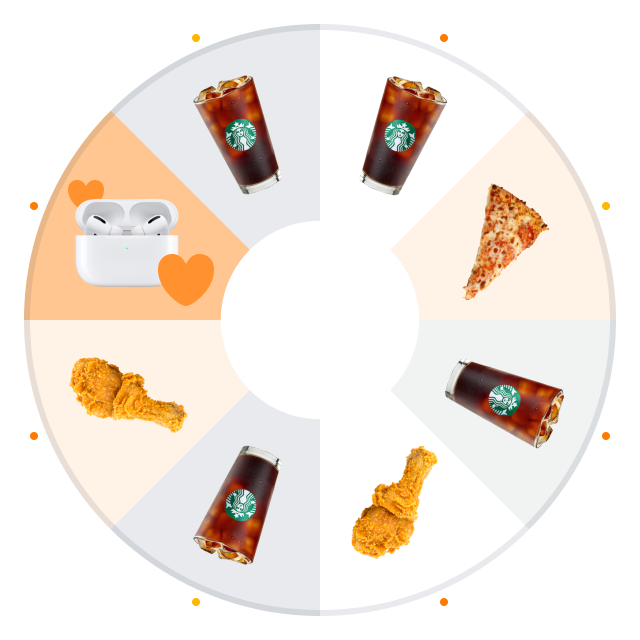
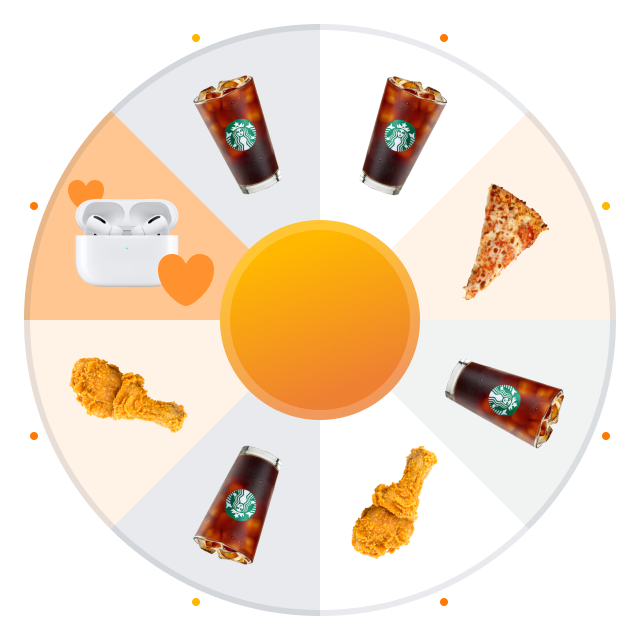
[ design ] 룰렛 UI디자인 구현 완료

Changed region(s): [[0.3438, 0.3438, 0.6562, 0.6562]]

diff --git a/naechinso-web/src/@components/FinishPage/Roulette.tsx b/naechinso-web/src/@components/FinishPage/Roulette.tsx
@@ -1,3 +1,87 @@
+import styled from "styled-components";
+
+import { ImgRoulette, ImgRoulettePicker } from "../../asset/image";
+
 export default function Roulette() {
-  return <div>Roulette</div>;
+  const recommendNumber = 2;
+
+  return (
+    <St.Roulette>
+      <St.RouletteBoard src={ImgRoulette} alt="룰렛 원판" />
+      <St.RoulettePicker src={ImgRoulettePicker} alt="룰렛 피커" />
+      <St.RouletteReadyBtn disabled={recommendNumber > 2 ? false : true}>
+        <St.RouletteBtnTitle recommendNumber={recommendNumber}>
+          {recommendNumber > 2 ? "시-작!🤪" : "시작못함😥"}
+        </St.RouletteBtnTitle>
+        <St.RouletteRecommendNumberWrapper recommendNumber={recommendNumber}>
+          <St.RouletteRecommendNumber recommendNumber={recommendNumber}>{recommendNumber}</St.RouletteRecommendNumber>
+          <St.RouletteReommendFullNumber recommendNumber={recommendNumber}>/3명</St.RouletteReommendFullNumber>
+        </St.RouletteRecommendNumberWrapper>
+      </St.RouletteReadyBtn>
+    </St.Roulette>
+  );
 }
+
+const St = {
+  Roulette: styled.section`
+    width: 100%;
+    position: relative;
+    margin-top: 3.6rem;
+
+    display: flex;
+    flex-direction: column;
+    justify-content: center;
+    align-items: center;
+
+    z-index: 2;
+  `,
+  RouletteBoard: styled.img`
+    width: 32rem;
+  `,
+  RoulettePicker: styled.img`
+    width: 2.8rem;
+    height: 4rem;
+    position: absolute;
+    transform: translate(-50%, 0);
+    left: 50%;
+    top: -8px;
+  `,
+  RouletteReadyBtn: styled.button`
+    position: absolute;
+    transform: translate(-50%, -50%);
+    left: 50%;
+    top: 50%;
+
+    display: flex;
+    flex-direction: column;
+    justify-content: center;
+    align-items: center;
+
+    width: 10rem;
+    height: 10rem;
+  `,
+  RouletteBtnTitle: styled.h2<{ recommendNumber: number }>`
+    color: ${({ theme, recommendNumber }) => (recommendNumber > 2 ? theme.colors.white : "rgba(255, 255, 255, 0.6)")};
+    ${({ theme, recommendNumber }) => (recommendNumber > 2 ? theme.fonts.body1 : theme.fonts.body8)};
+    margin-bottom: 0.3rem;
+  `,
+  RouletteRecommendNumberWrapper: styled.div<{ recommendNumber: number }>`
+    display: flex;
+    align-items: flex-start;
+    padding: 0.2rem 0.6rem;
+    border-radius: 11px;
+    width: fit-content;
+    height: 1.8rem;
+
+    background: ${({ theme, recommendNumber }) =>
+      recommendNumber > 2 ? theme.colors.white : "rgba(255, 255, 255, 0.2)"};
+  `,
+  RouletteRecommendNumber: styled.p<{ recommendNumber: number }>`
+    color: ${({ theme, recommendNumber }) => (recommendNumber > 2 ? theme.colors.orange : "rgba(255, 255, 255, 0.4)")};
+    ${({ theme }) => theme.fonts.caption2};
+  `,
+  RouletteReommendFullNumber: styled.b<{ recommendNumber: number }>`
+    color: ${({ theme, recommendNumber }) => (recommendNumber > 2 ? theme.colors.orange : theme.colors.white)};
+    ${({ theme }) => theme.fonts.caption2};
+  `,
+};

diff --git a/naechinso-web/src/asset/image/index.tsx b/naechinso-web/src/asset/image/index.tsx
@@ -20,6 +20,7 @@ export { default as ImgRecommenderLanding } from "./recommenderLanding.png";
 export { default as ImgRecommendLanding } from "./recommendLanding.png";
 export { default as ImgRoulette } from "./roulette.png";
 export { default as ImgRouletteGaugeNaechinso } from "./rouletteGaugeNaechinso.png";
+export { default as ImgRoulettePicker } from "./roulettePicker.png";
 export { default as ImgSelfIntroNaechinso } from "./selfIntroNaechinso.png";
 export { default as ImgWarningNaechinso } from "./warningNaechinso.png";
 export { default as ImgYetGauge } from "./yetGauge.png";

diff --git a/naechinso-web/src/@components/FinishPage/Finish.tsx b/naechinso-web/src/@components/FinishPage/Finish.tsx
@@ -76,10 +76,10 @@ const St = {
     display: flex;
     flex-direction: column;
     align-items: center;
-    padding: 2.8rem 2rem 3.6rem;
+    padding: 2.8rem 2rem 12rem;
 
     width: 100%;
-    height: 100vh;
+    height: auto;
 
     position: relative;
   `,
@@ -137,12 +137,13 @@ const St = {
     ${({ theme }) => theme.fonts.sub3};
     height: 5.6rem;
     border-radius: 16px;
+    z-index: 4;
 
     display: flex;
     justify-content: center;
     align-items: center;
 
-    position: absolute;
+    position: fixed;
     bottom: 4.4rem;
 
     width: 33.5rem;
